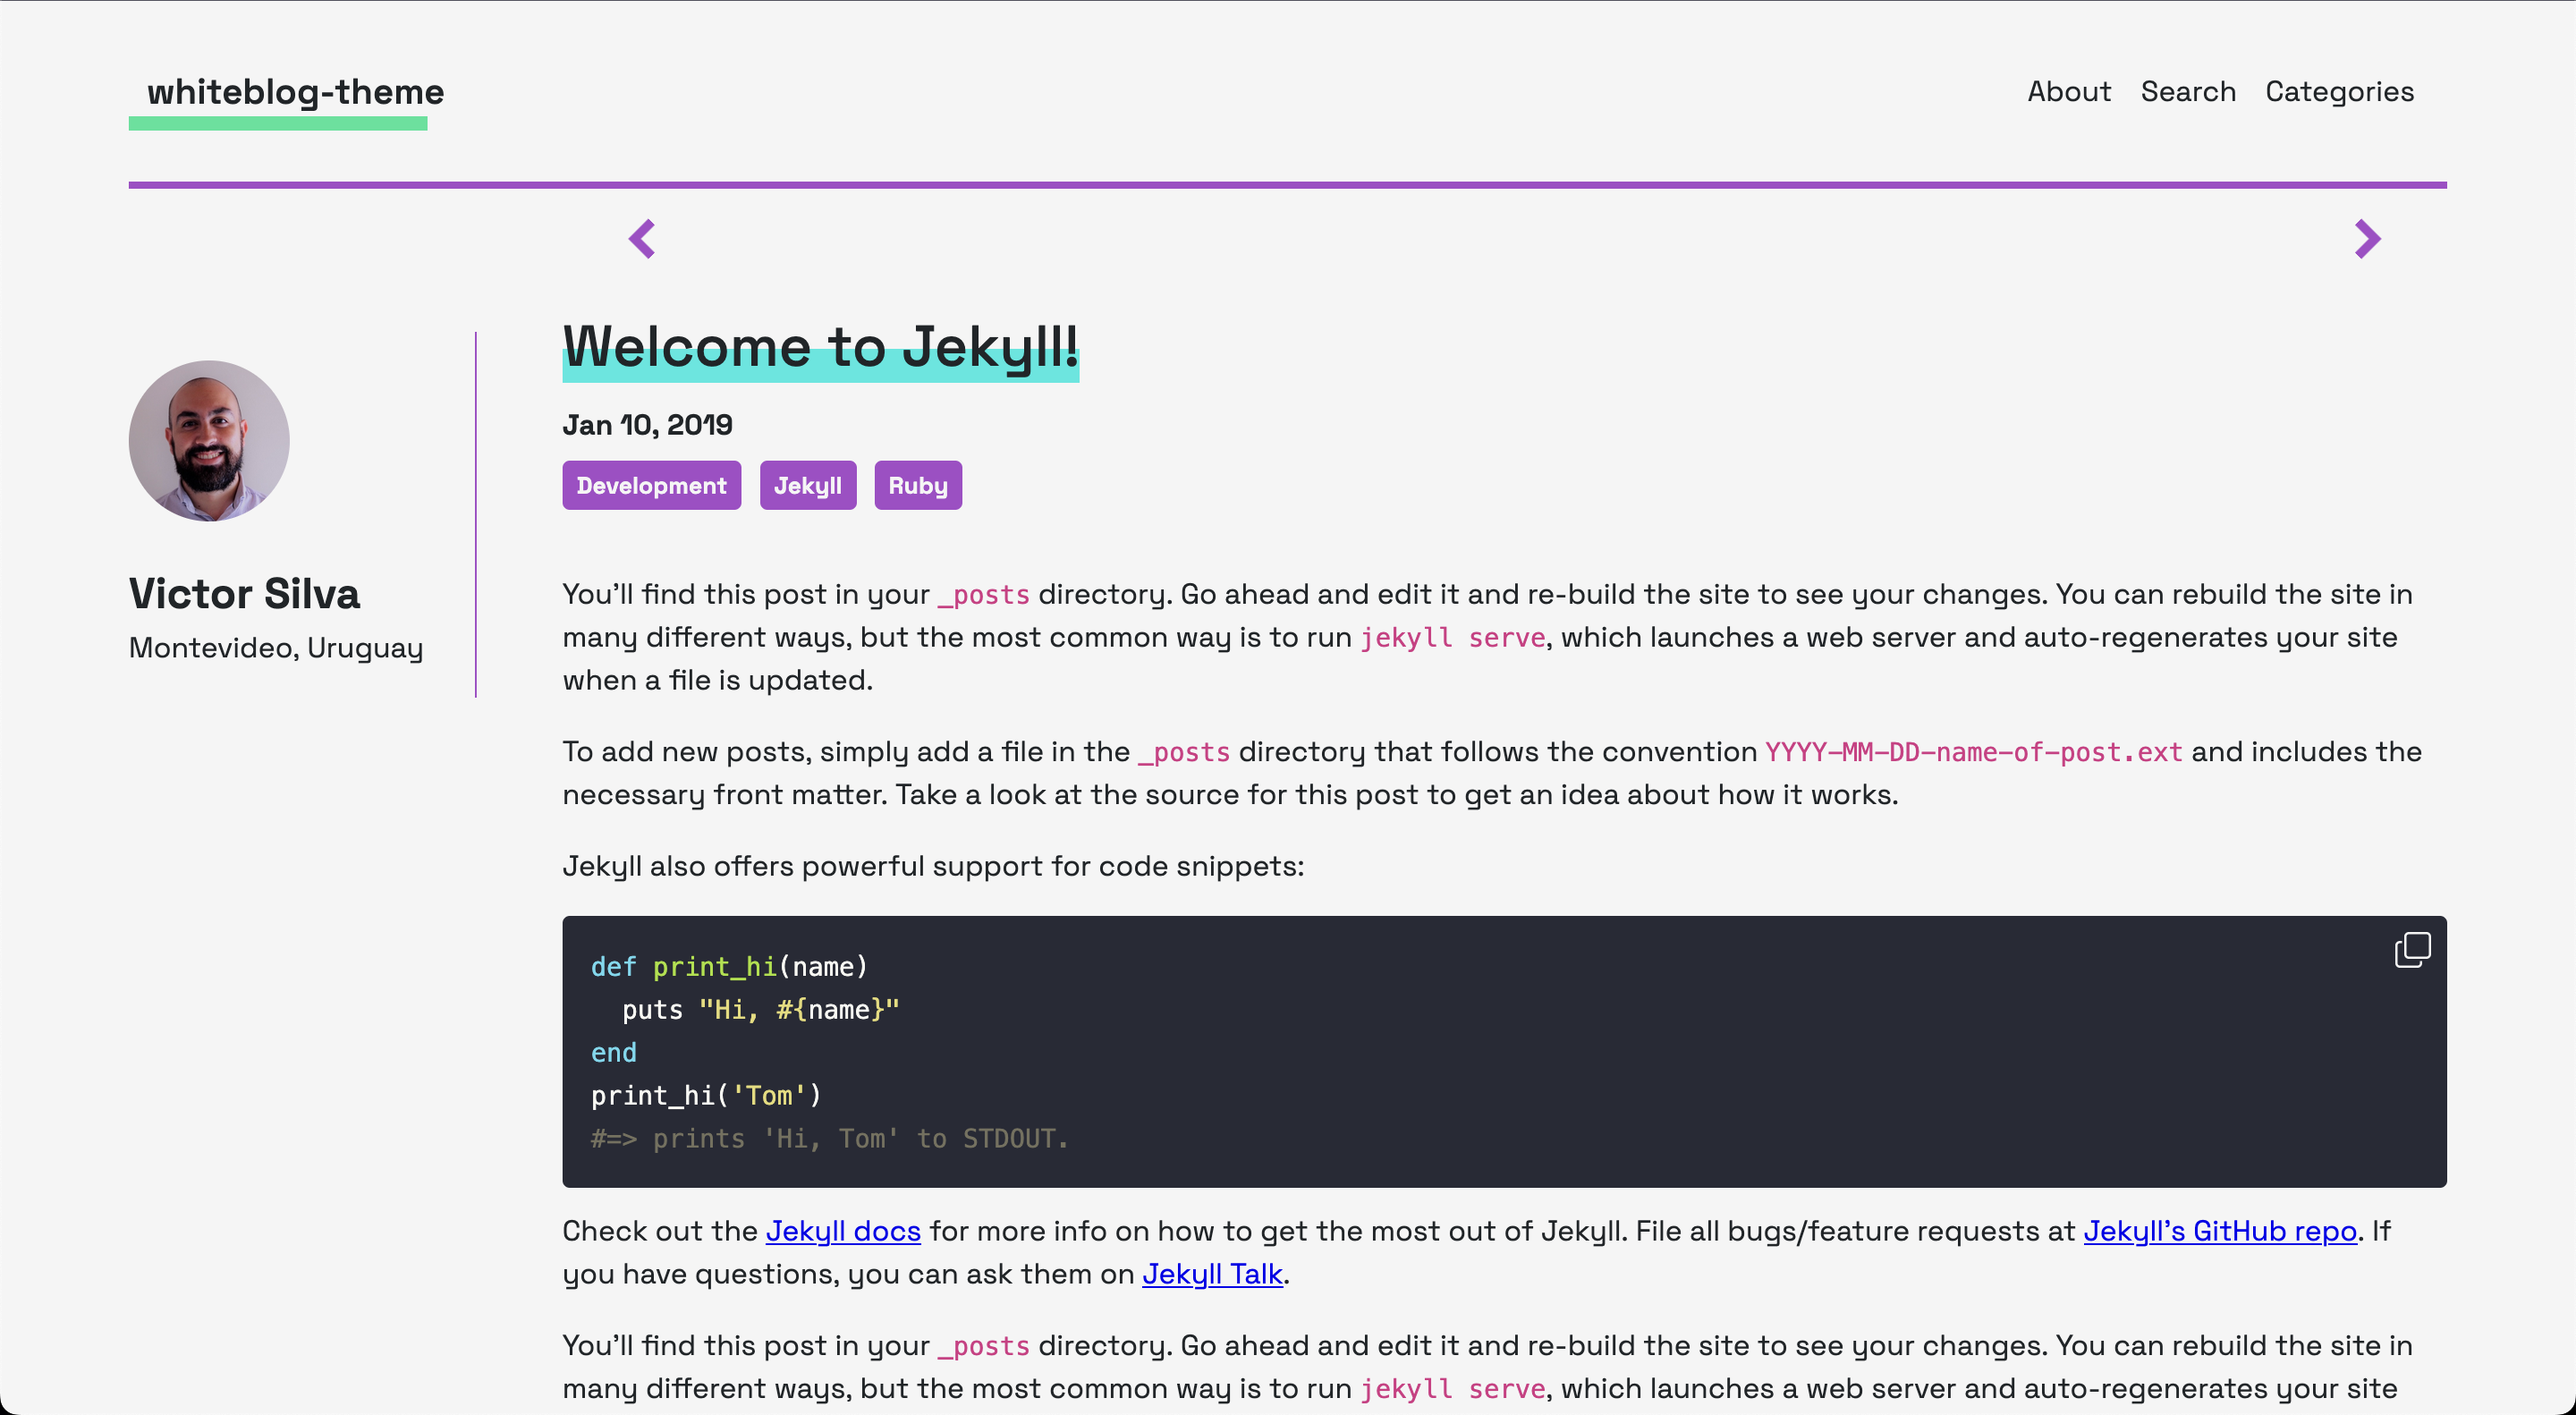
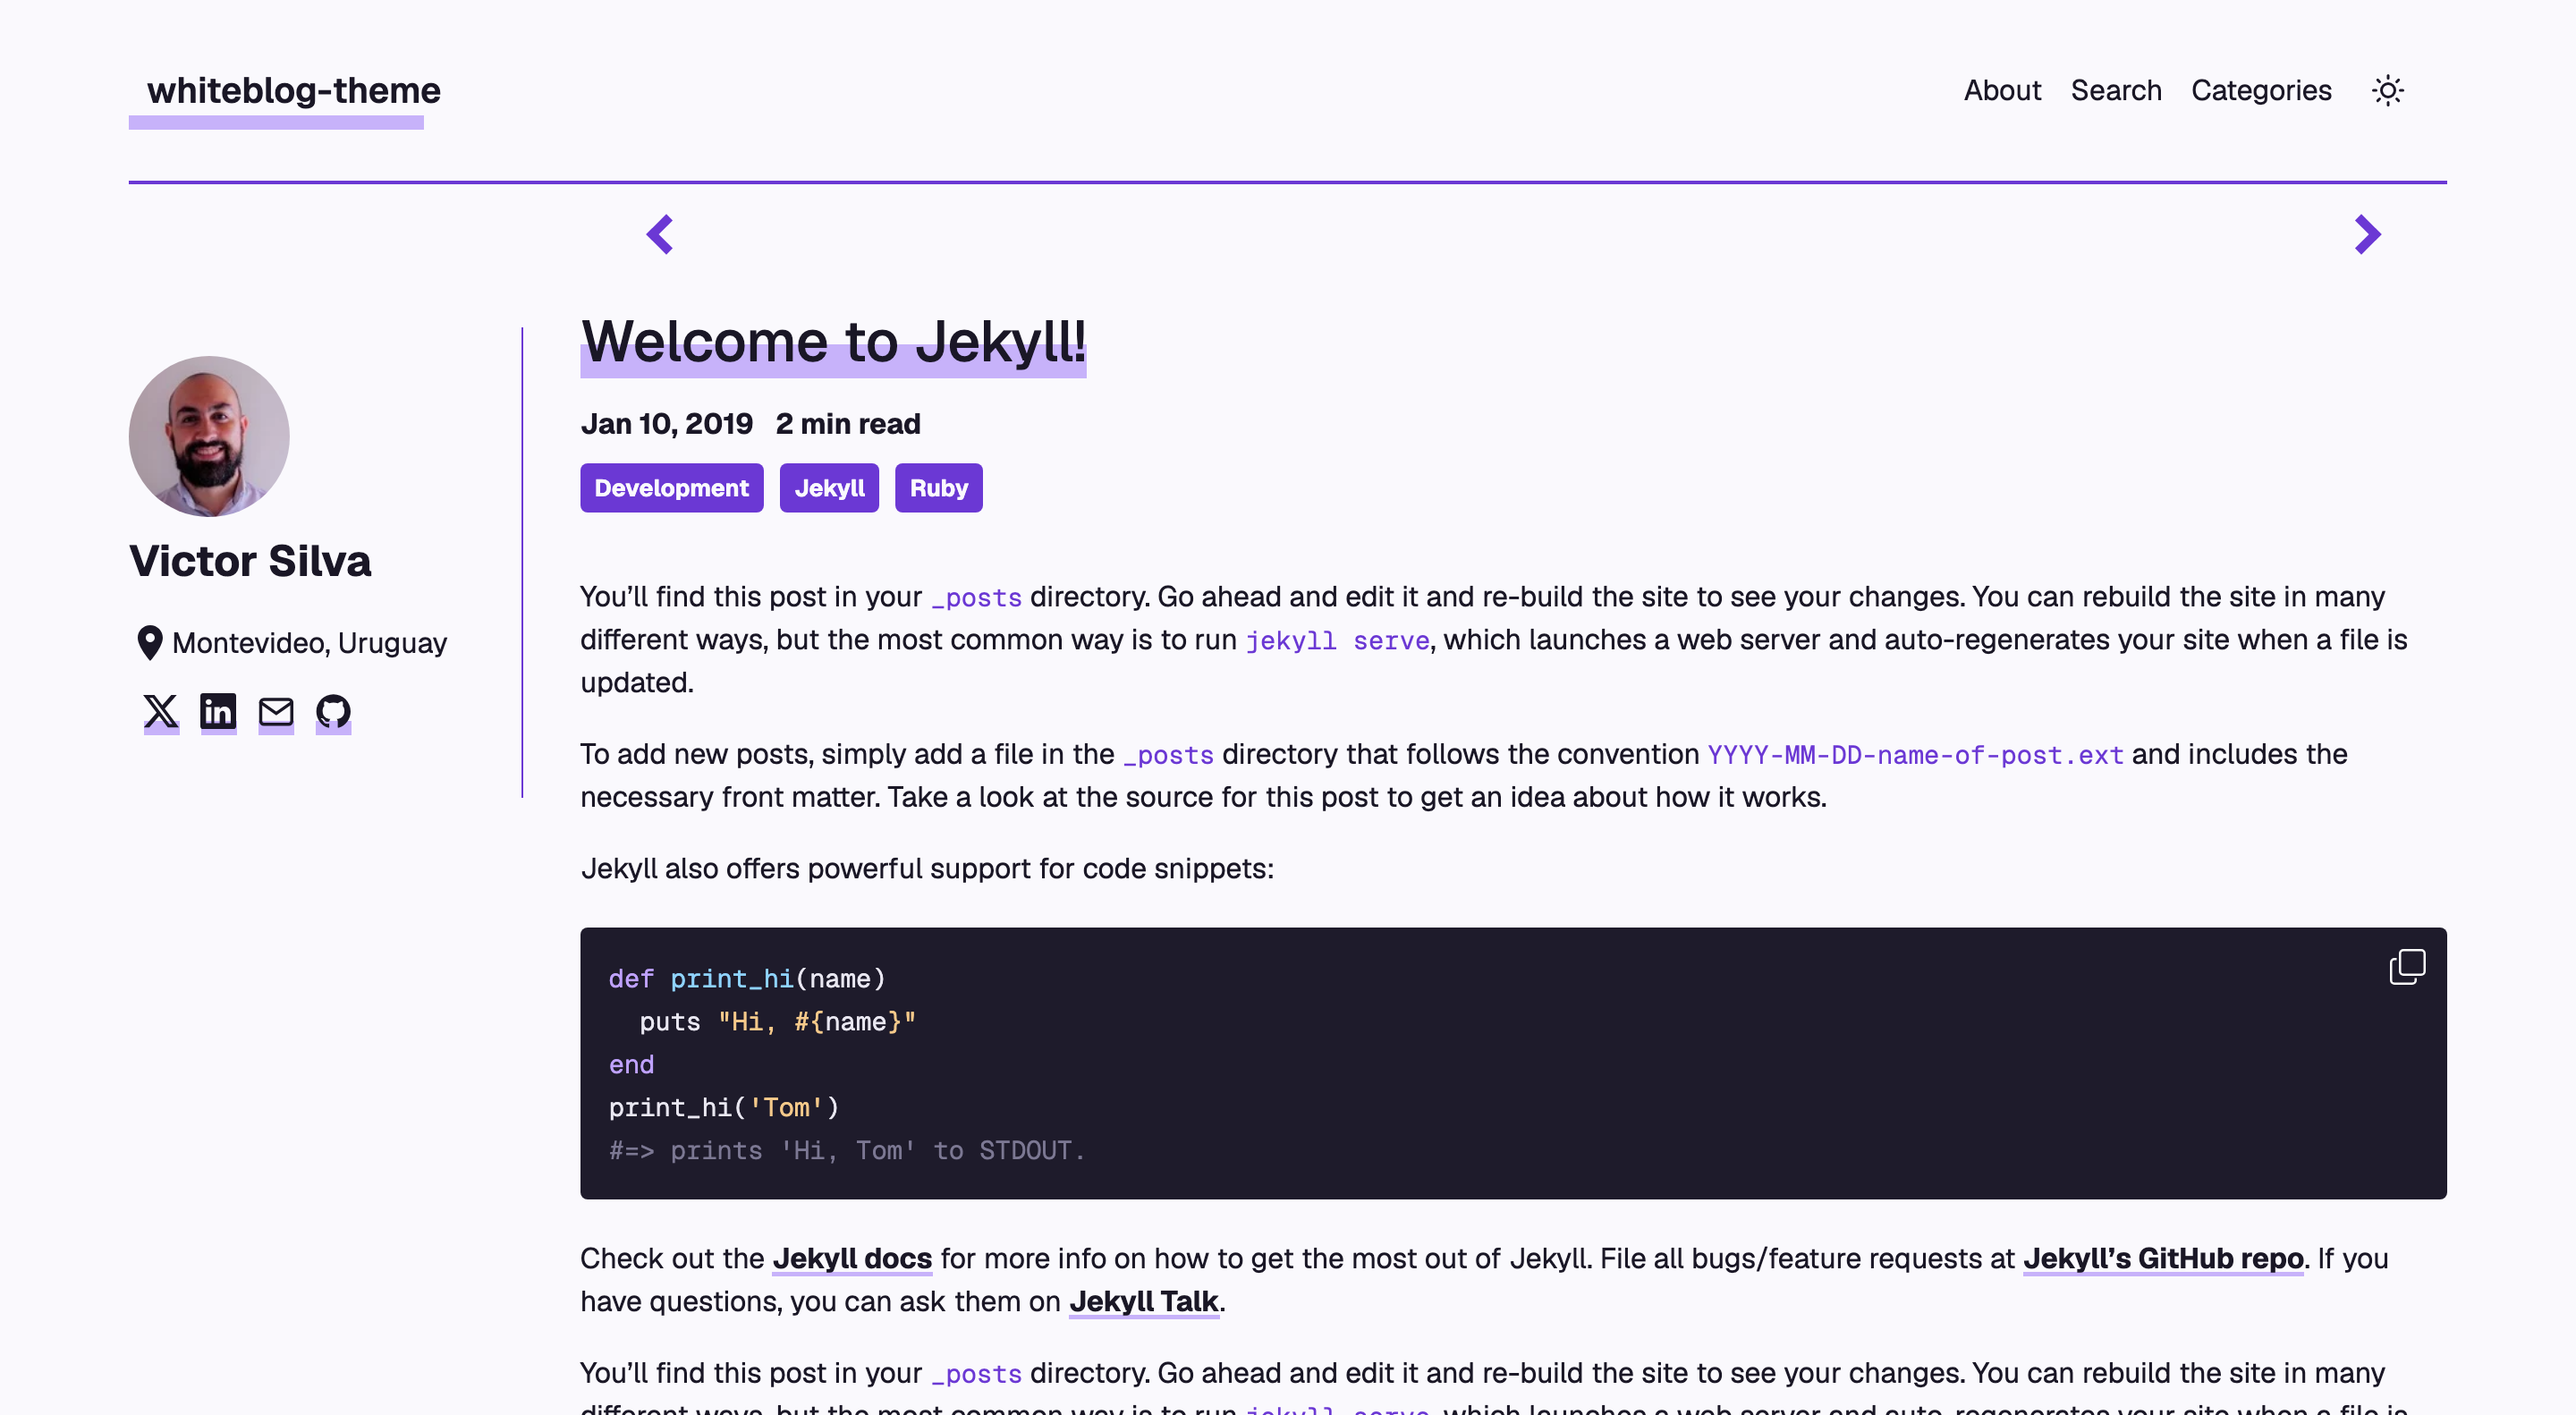
chore(theme): update screenshot and preview styles for new palette

diff --git a/assets/css/previews.css b/assets/css/previews.css
@@ -3,10 +3,9 @@ html {
   }
   
   body {
-    /* background: #614bc3; */
-    background: rgb(97,75,195);
-    background: linear-gradient(40deg, rgba(97,75,195,1) 15%, rgba(68,205,213,1) 85%);
-    background: -webkit-linear-gradient(40deg, rgba(97,75,195,1) 15%, rgba(68,205,213,1) 85%);
+    background: #6B38D4;
+    background: linear-gradient(40deg, #6B38D4 15%, #B794FF 85%);
+    background: -webkit-linear-gradient(40deg, #6B38D4 15%, #B794FF 85%);
     width: 600px;
     height: 330px;
     position: relative;
@@ -14,9 +13,9 @@ html {
   }
   
   .box {
-    background-color: #fff;
-    color: #000;
-    font-family: 'Space Grotesk';
+    background-color: #FAF9FD;
+    color: #1A1726;
+    font-family: 'Geist', 'Helvetica Neue', Arial, sans-serif;
     padding: 25px; 
     margin: 20px; 
     height: 240px;

diff --git a/_plugins/previews.rb b/_plugins/previews.rb
@@ -30,7 +30,7 @@ module Previews
               <meta charset="utf-8">
               <link rel="preconnect" href="https://fonts.googleapis.com">
               <link rel="preconnect" href="https://fonts.gstatic.com" crossorigin>
-              <link rel="stylesheet" href="https://fonts.googleapis.com/css2?family=Space+Grotesk:wght@300..700&display=swap">
+              <link rel="stylesheet" href="https://fonts.googleapis.com/css2?family=Geist:wght@300..700&display=swap">
             </head>
             <body>
               <div class="box">
